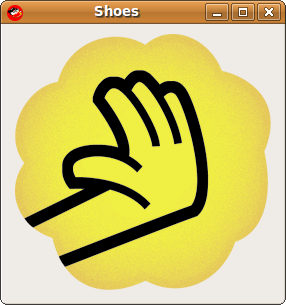
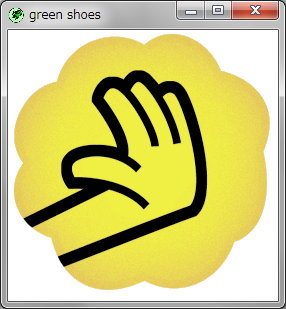
Reviewed built-in manual page 26, Image. Implemented full_width and full_height methods for Image objects.

diff --git a/lib/shoes/app.rb b/lib/shoes/app.rb
@@ -134,6 +134,7 @@ class Shoes
 
     def image name, args={}
       args = basic_attributes args
+      args[:full_width] = args[:full_height] = 0
       if name =~ /^(http|https):\/\//
         tmpname = File.join(Dir.tmpdir, "__green_shoes_#{Time.now.to_f}.png")
         d = download name, save: tmpname
@@ -143,10 +144,11 @@ class Shoes
         img = Gtk::Image.new name
         downloading = false
       end
+
       if (!args[:width].zero? or !args[:height].zero?) and !downloading 
-        w, h = imagesize(name)
-        args[:width] = w if args[:width].zero?
-        args[:height] = w if args[:height].zero?
+        args[:full_width], args[:full_height] = imagesize(name)
+        args[:width] = args[:full_width] if args[:width].zero?
+        args[:height] = args[:full_height] if args[:height].zero?
         img = Gtk::Image.new img.pixbuf.scale(args[:width], args[:height])
       end
       @canvas.put img, args[:left], args[:top]

diff --git a/lib/shoes/helper_methods.rb b/lib/shoes/helper_methods.rb
@@ -317,6 +317,7 @@ class Shoes
       if d.finished?
         app.canvas.remove e.real
         img = Gtk::Image.new tmpname
+        e.full_width, e.full_height = img.size_request
         unless args[:width].zero? and args[:height].zero?
           img = Gtk::Image.new img.pixbuf.scale(args[:width], args[:height])
         end
